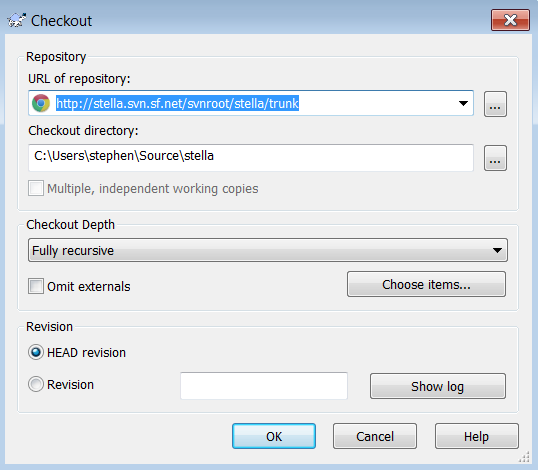
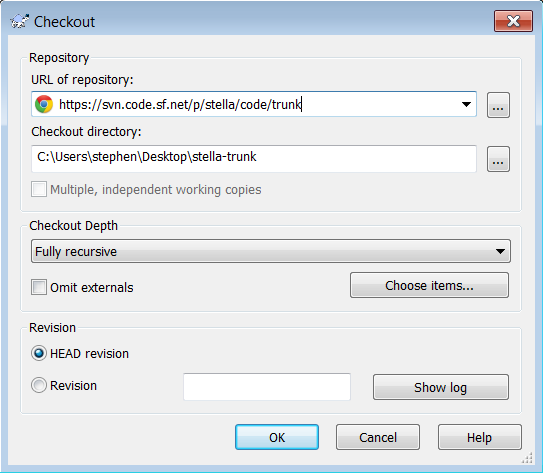
Updated webpage with info on upgrading SVN repo.  Hopefully this is the last time this will be necessary.

diff --git a/development.php b/development.php
@@ -41,7 +41,7 @@ following is a description of how to do this for the three major platforms.
   <p>The source for the latest release can always be found under "Stable Releases" on the
   main webpage.  However, you'd be better off working with the most recent code, located
   in a Subversion repository.  The following command will <I>checkout</I> this code:
-  <div class="con">svn co https://stella.svn.sourceforge.net/svnroot/stella/trunk stella</div>
+  <div class="con">svn co https://svn.code.sf.net/p/stella/code/trunk stella</div>
   <p>This will checkout from trunk for local modifications.  However, you won't be able to
   commit changes unless you've been added to the Stella project.  In those cases, it's best
   to use the following command to generate a <I>diff</I> file, which can be sent to the
@@ -99,7 +99,7 @@ rpmbuild -ba stella.spec</div>
   <p>The source for the latest release can always be found under "Stable Releases" on the
   main webpage.  However, you'd be better off working with the most recent code, located
   in a Subversion repository.  The following command will <I>checkout</I> this code:
-  <div class="con">svn co https://stella.svn.sourceforge.net/svnroot/stella/trunk stella</div>
+  <div class="con">svn co https://svn.code.sf.net/p/stella/code/trunk stella</div>
   <p>This will checkout from trunk for local modifications.  However, you won't be able to
   commit changes unless you've been added to the Stella project.  In those cases, it's best
   to use the following command to generate a <I>diff</I> file, which can be sent to the

diff --git a/stellanews.php b/stellanews.php
@@ -12,6 +12,12 @@
 			<div class="content">
 
 <!---------------------------------------------------------------->
+<H4>March 13, 2013</H4>
+The Subversion repository used by Stella has been changed.  All developers
+will need to checkout again from trunk, or relocate their current directory
+to the new system.
+
+
 <H4>March 3, 2013</H4>
 Stella release 3.8.1 for Linux, MacOS X and Windows is now available.
 <ul>

diff --git a/footer.php b/footer.php
@@ -2,4 +2,4 @@
 <a href="http://www.bradfordmott.com">Bradford W. Mott</a>, 
 <a href="http://minbar.org">Stephen Anthony</a> and 
 <a href="theteam.php">The Stella Team</a>
-<br/>	Site Updated March 9, 2013</p>
+<br/>	Site Updated March 13, 2013</p>
